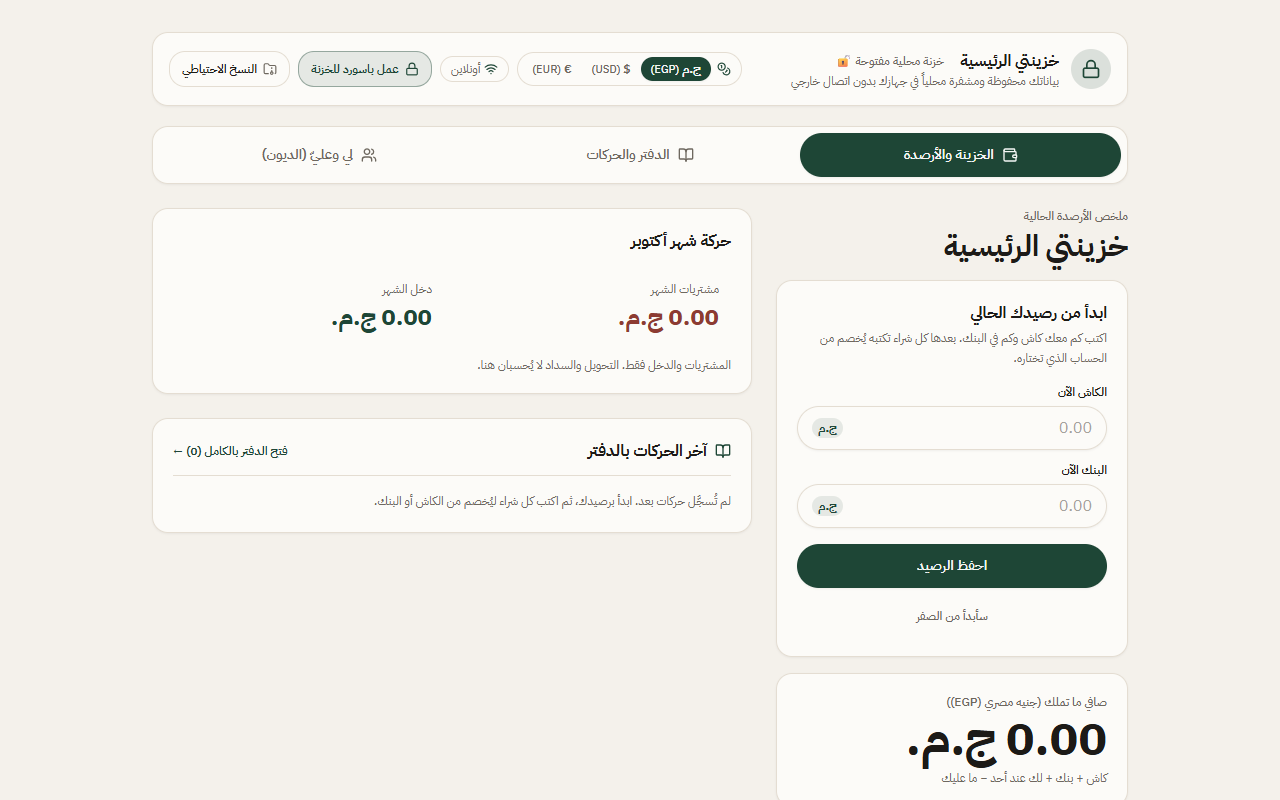
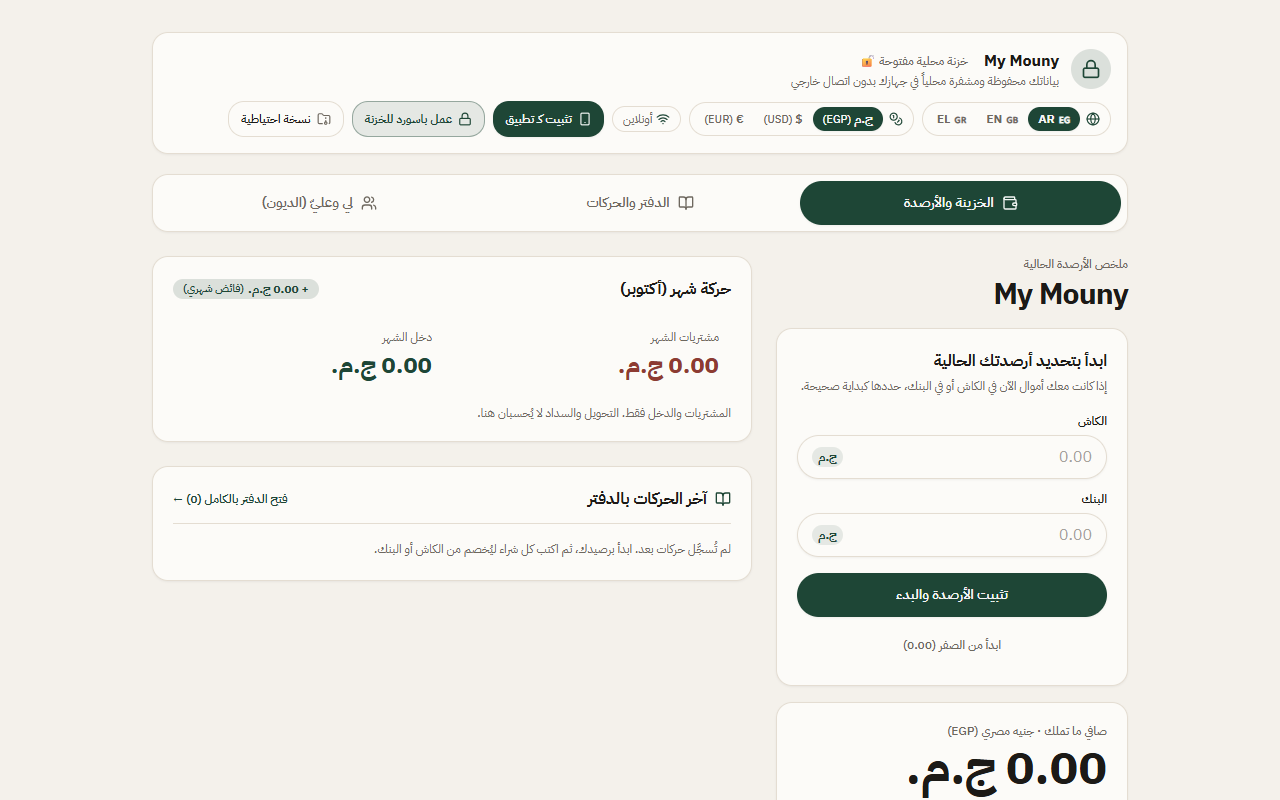
fix: use native Java keytool for release keystore generation and verification

diff --git a/src/lib/i18n/index.ts b/src/lib/i18n/index.ts
@@ -186,7 +186,7 @@ export const translations = {
 
     // Exit Toast & Footer
     pressBackAgainToExit: "اضغط رجوع مرة أخرى للخروج من التطبيق",
-    footerCopyright: "خزينتي © 2026",
+    footerCopyright: "My Mouny © 2026",
     footerPrivacy: "سياسة الخصوصية والأمان",
     footerSecurity: "تشفير محلي عسكري AES-256 · أوفلاين 100% بدون خوادم",
 
@@ -224,7 +224,7 @@ export const translations = {
     createNewVaultBtn: "إنشاء خزنة جديدة على هذا الجهاز",
     importVaultFromBackupBtn: "استيراد خزنة من نسخة احتياطية (.json)",
     vaultNameLabel: "اسم الخزنة",
-    vaultNamePlaceholder: "مثال: خزينتي الشخصية، مصاريف البيت",
+    vaultNamePlaceholder: "مثال: خزنة My Mouny، مصاريف البيت",
     vaultPinOptionalLabel: "رمز المرور (PIN أو كلمة سر)",
     optionalBadge: "اختياري",
     pinOptionalPlaceholder: "اتركه فارغاً للدخول بدون رمز، أو 4 خانات",
@@ -454,7 +454,7 @@ export const translations = {
 
     // Exit Toast & Footer
     pressBackAgainToExit: "Press back again to exit the app",
-    footerCopyright: "Khazinti © 2026",
+    footerCopyright: "My Mouny © 2026",
     footerPrivacy: "Privacy Policy & Security",
     footerSecurity: "Military-grade local AES-256 · 100% Offline without servers",
 
@@ -722,7 +722,7 @@ export const translations = {
 
     // Exit Toast & Footer
     pressBackAgainToExit: "Πατήστε ξανά πίσω για έξοδο από την εφαρμογή",
-    footerCopyright: "Khazinti © 2026",
+    footerCopyright: "My Mouny © 2026",
     footerPrivacy: "Πολιτική Απορρήτου & Ασφάλεια",
     footerSecurity: "Στρατιωτικού επιπέδου τοπικό AES-256 · 100% Εκτός σύνδεσης χωρίς διακομιστές",
 

diff --git a/src/lib/ledger/store.ts b/src/lib/ledger/store.ts
@@ -213,7 +213,7 @@ export const useLedger = create<LedgerState>((set, get) => ({
         if (vaults.length === 0) {
           const defaultVault = await getOrCreateDefaultVault().catch(() => ({
             id: "default-vault",
-            name: "خزينتي الرئيسية",
+            name: "My Mouny",
             hasPin: false,
             createdAt: Date.now(),
             updatedAt: Date.now(),
@@ -275,7 +275,7 @@ export const useLedger = create<LedgerState>((set, get) => ({
         console.warn("[useLedger] initSession took >2s, forcing fallback initialized state");
         const fallbackVault: VaultMeta = {
           id: "default-vault",
-          name: "خزينتي الرئيسية",
+          name: "My Mouny",
           hasPin: false,
           createdAt: Date.now(),
           updatedAt: Date.now(),
@@ -294,7 +294,7 @@ export const useLedger = create<LedgerState>((set, get) => ({
       console.error("[useLedger] Failed to init session:", err);
       const fallbackVault: VaultMeta = {
         id: "default-vault",
-        name: "خزينتي الرئيسية",
+        name: "My Mouny",
         hasPin: false,
         createdAt: Date.now(),
         updatedAt: Date.now(),
@@ -316,7 +316,7 @@ export const useLedger = create<LedgerState>((set, get) => ({
     // Find first vault without a PIN, or create one
     let target = vaults.find((v) => !v.hasPin);
     if (!target) {
-      const res = await idbCreateVault("خزينتي المفتوحة", undefined);
+      const res = await idbCreateVault("My Mouny", undefined);
       target = res.meta;
     }
     const txs = await loadVaultTransactions(target.id, undefined);

diff --git a/src/components/ledger/vault-auth.tsx b/src/components/ledger/vault-auth.tsx
@@ -682,7 +682,7 @@ export function BackupModal({ onClose }: { onClose: () => void }) {
       const json = await exportBackup();
       const blob = new Blob([json], { type: "application/json" });
       const url = URL.createObjectURL(blob);
-      const fileName = `Khazinti_${currentVault?.name || "backup"}_${new Date().toISOString().slice(0, 10)}.json`;
+      const fileName = `My_Mouny_${currentVault?.name || "backup"}_${new Date().toISOString().slice(0, 10)}.json`;
       setDownloadUrl(url);
       setDownloadFileName(fileName);
       setStatusMsg(t("backupReadySuccess", lang));

diff --git a/src/lib/storage/idb.ts b/src/lib/storage/idb.ts
@@ -267,7 +267,7 @@ export async function getOrCreateDefaultVault(): Promise<VaultMeta> {
   const id = crypto.randomUUID();
   const defaultVault: VaultRecord = {
     id,
-    name: "خزينتي الرئيسية",
+    name: "My Mouny",
     hasPin: false,
     pinHash: "",
     salt: generateSalt(32),
